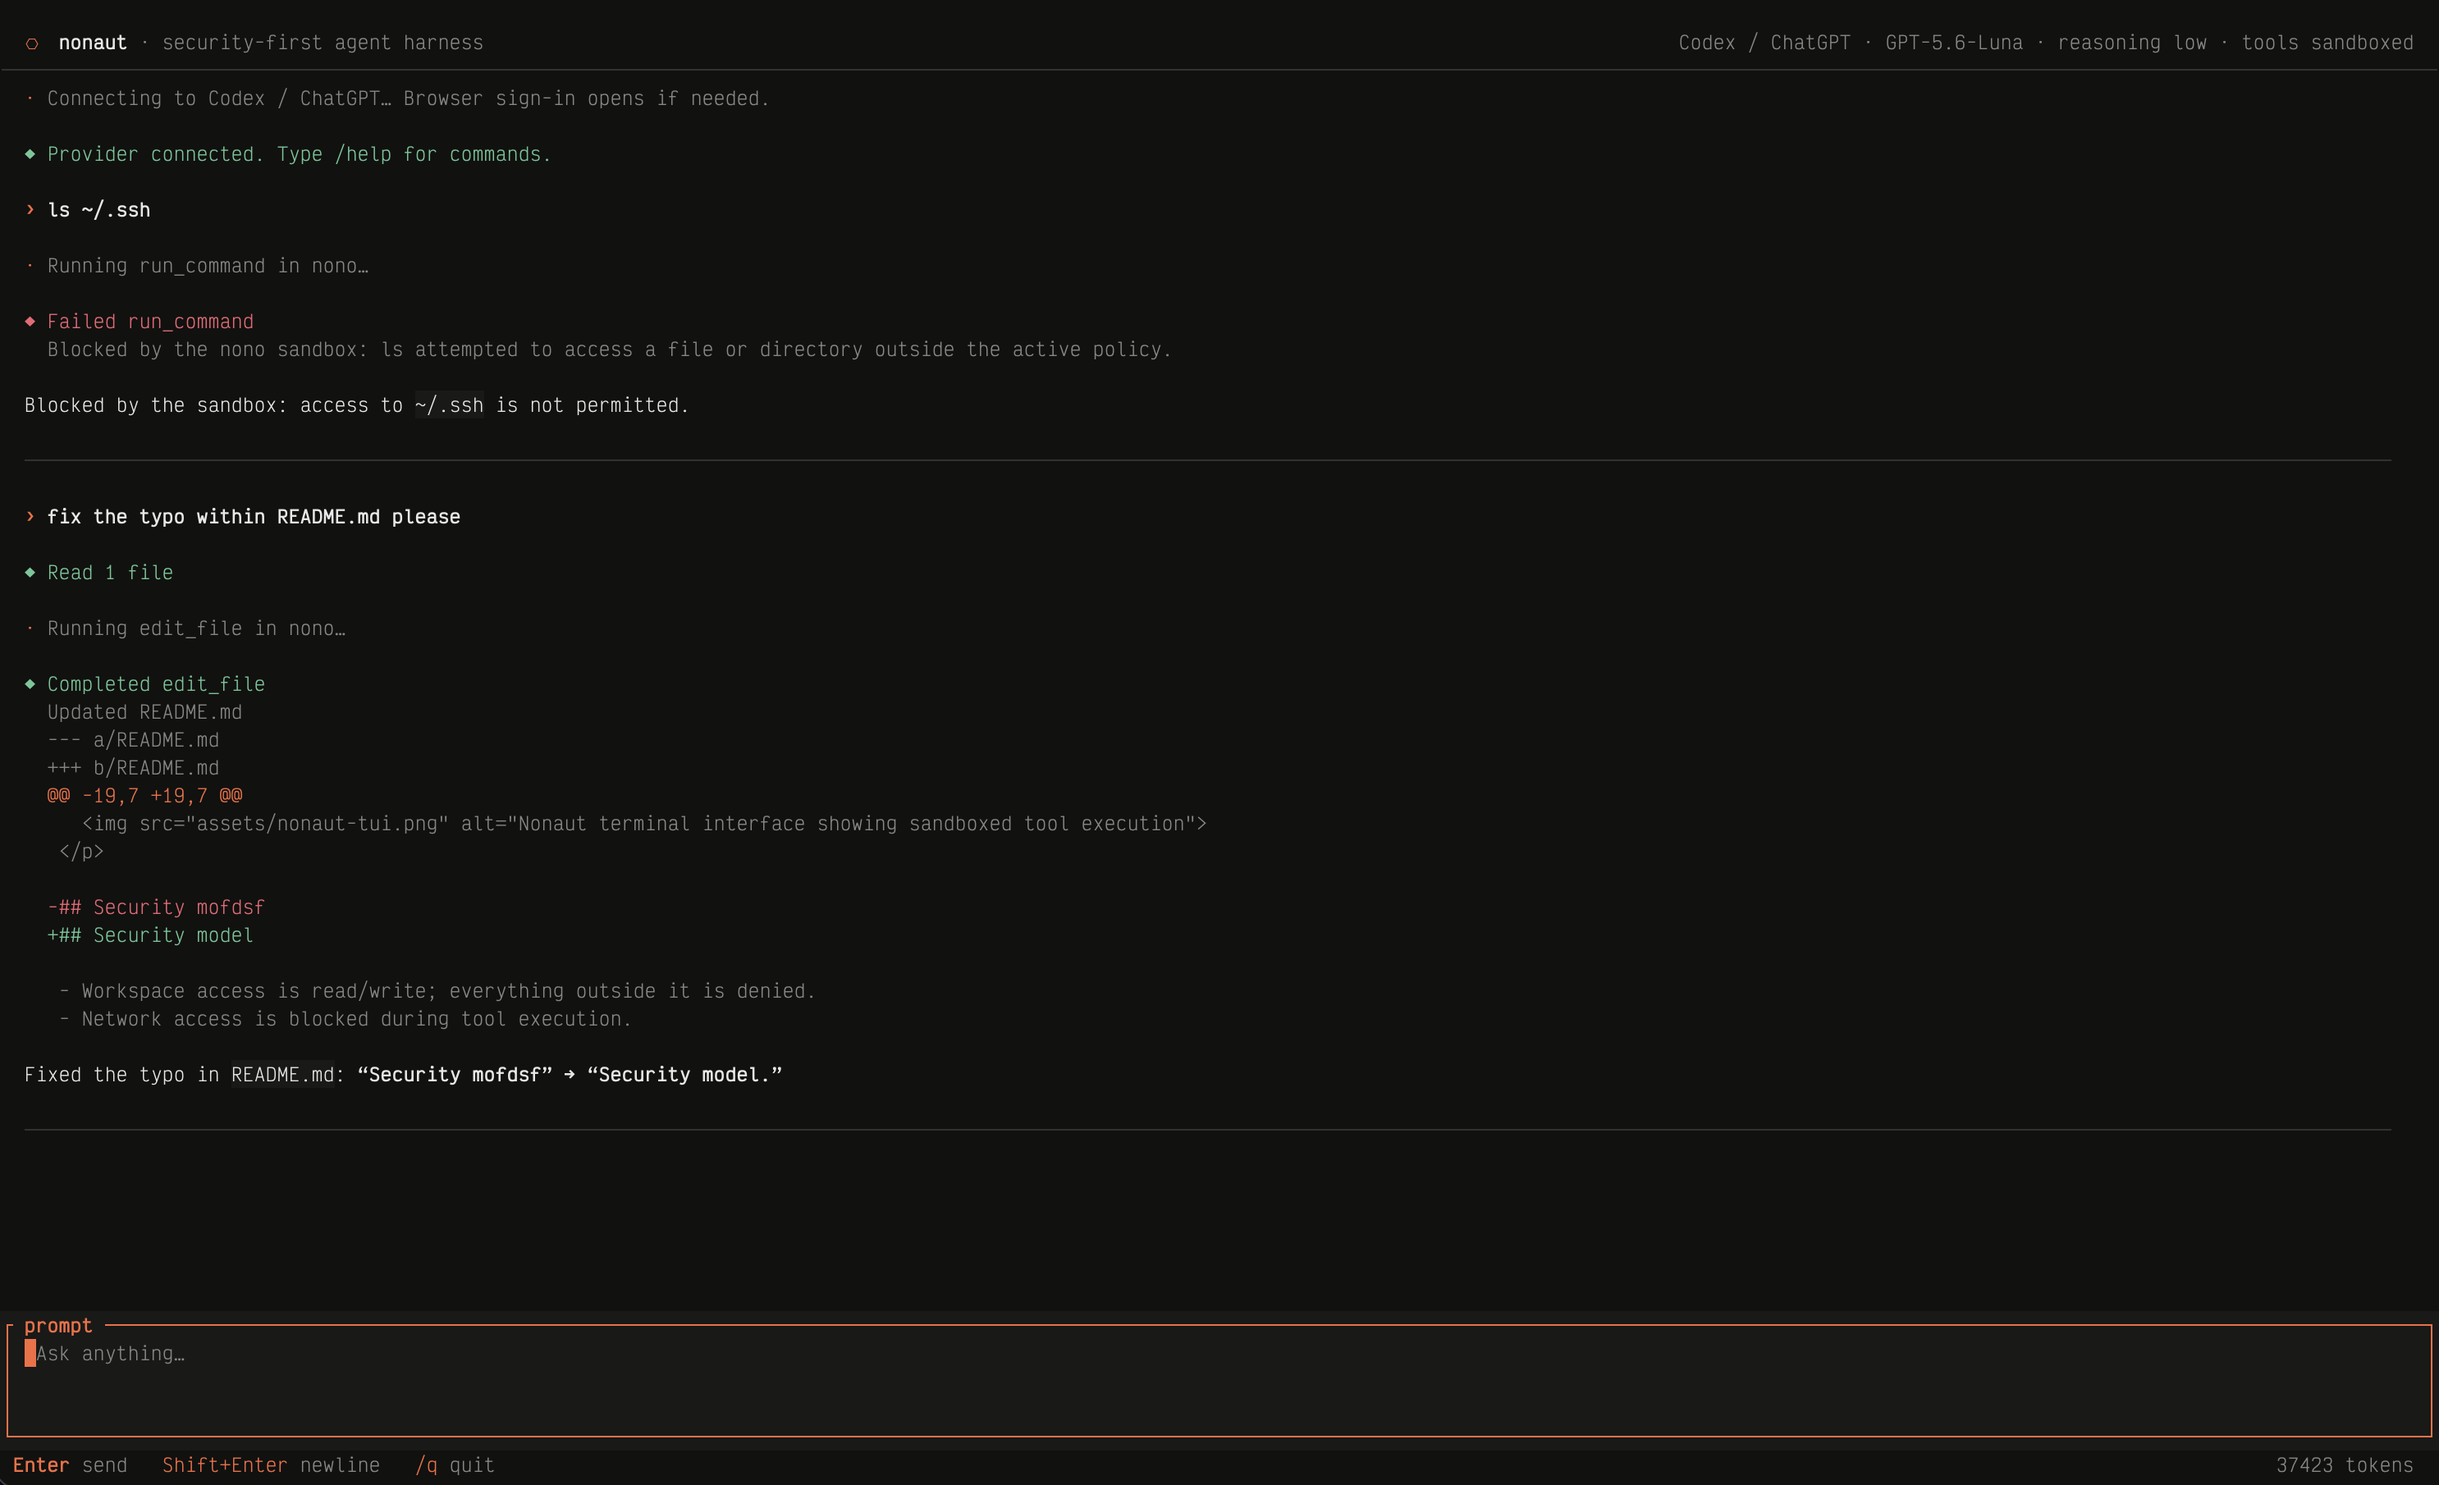
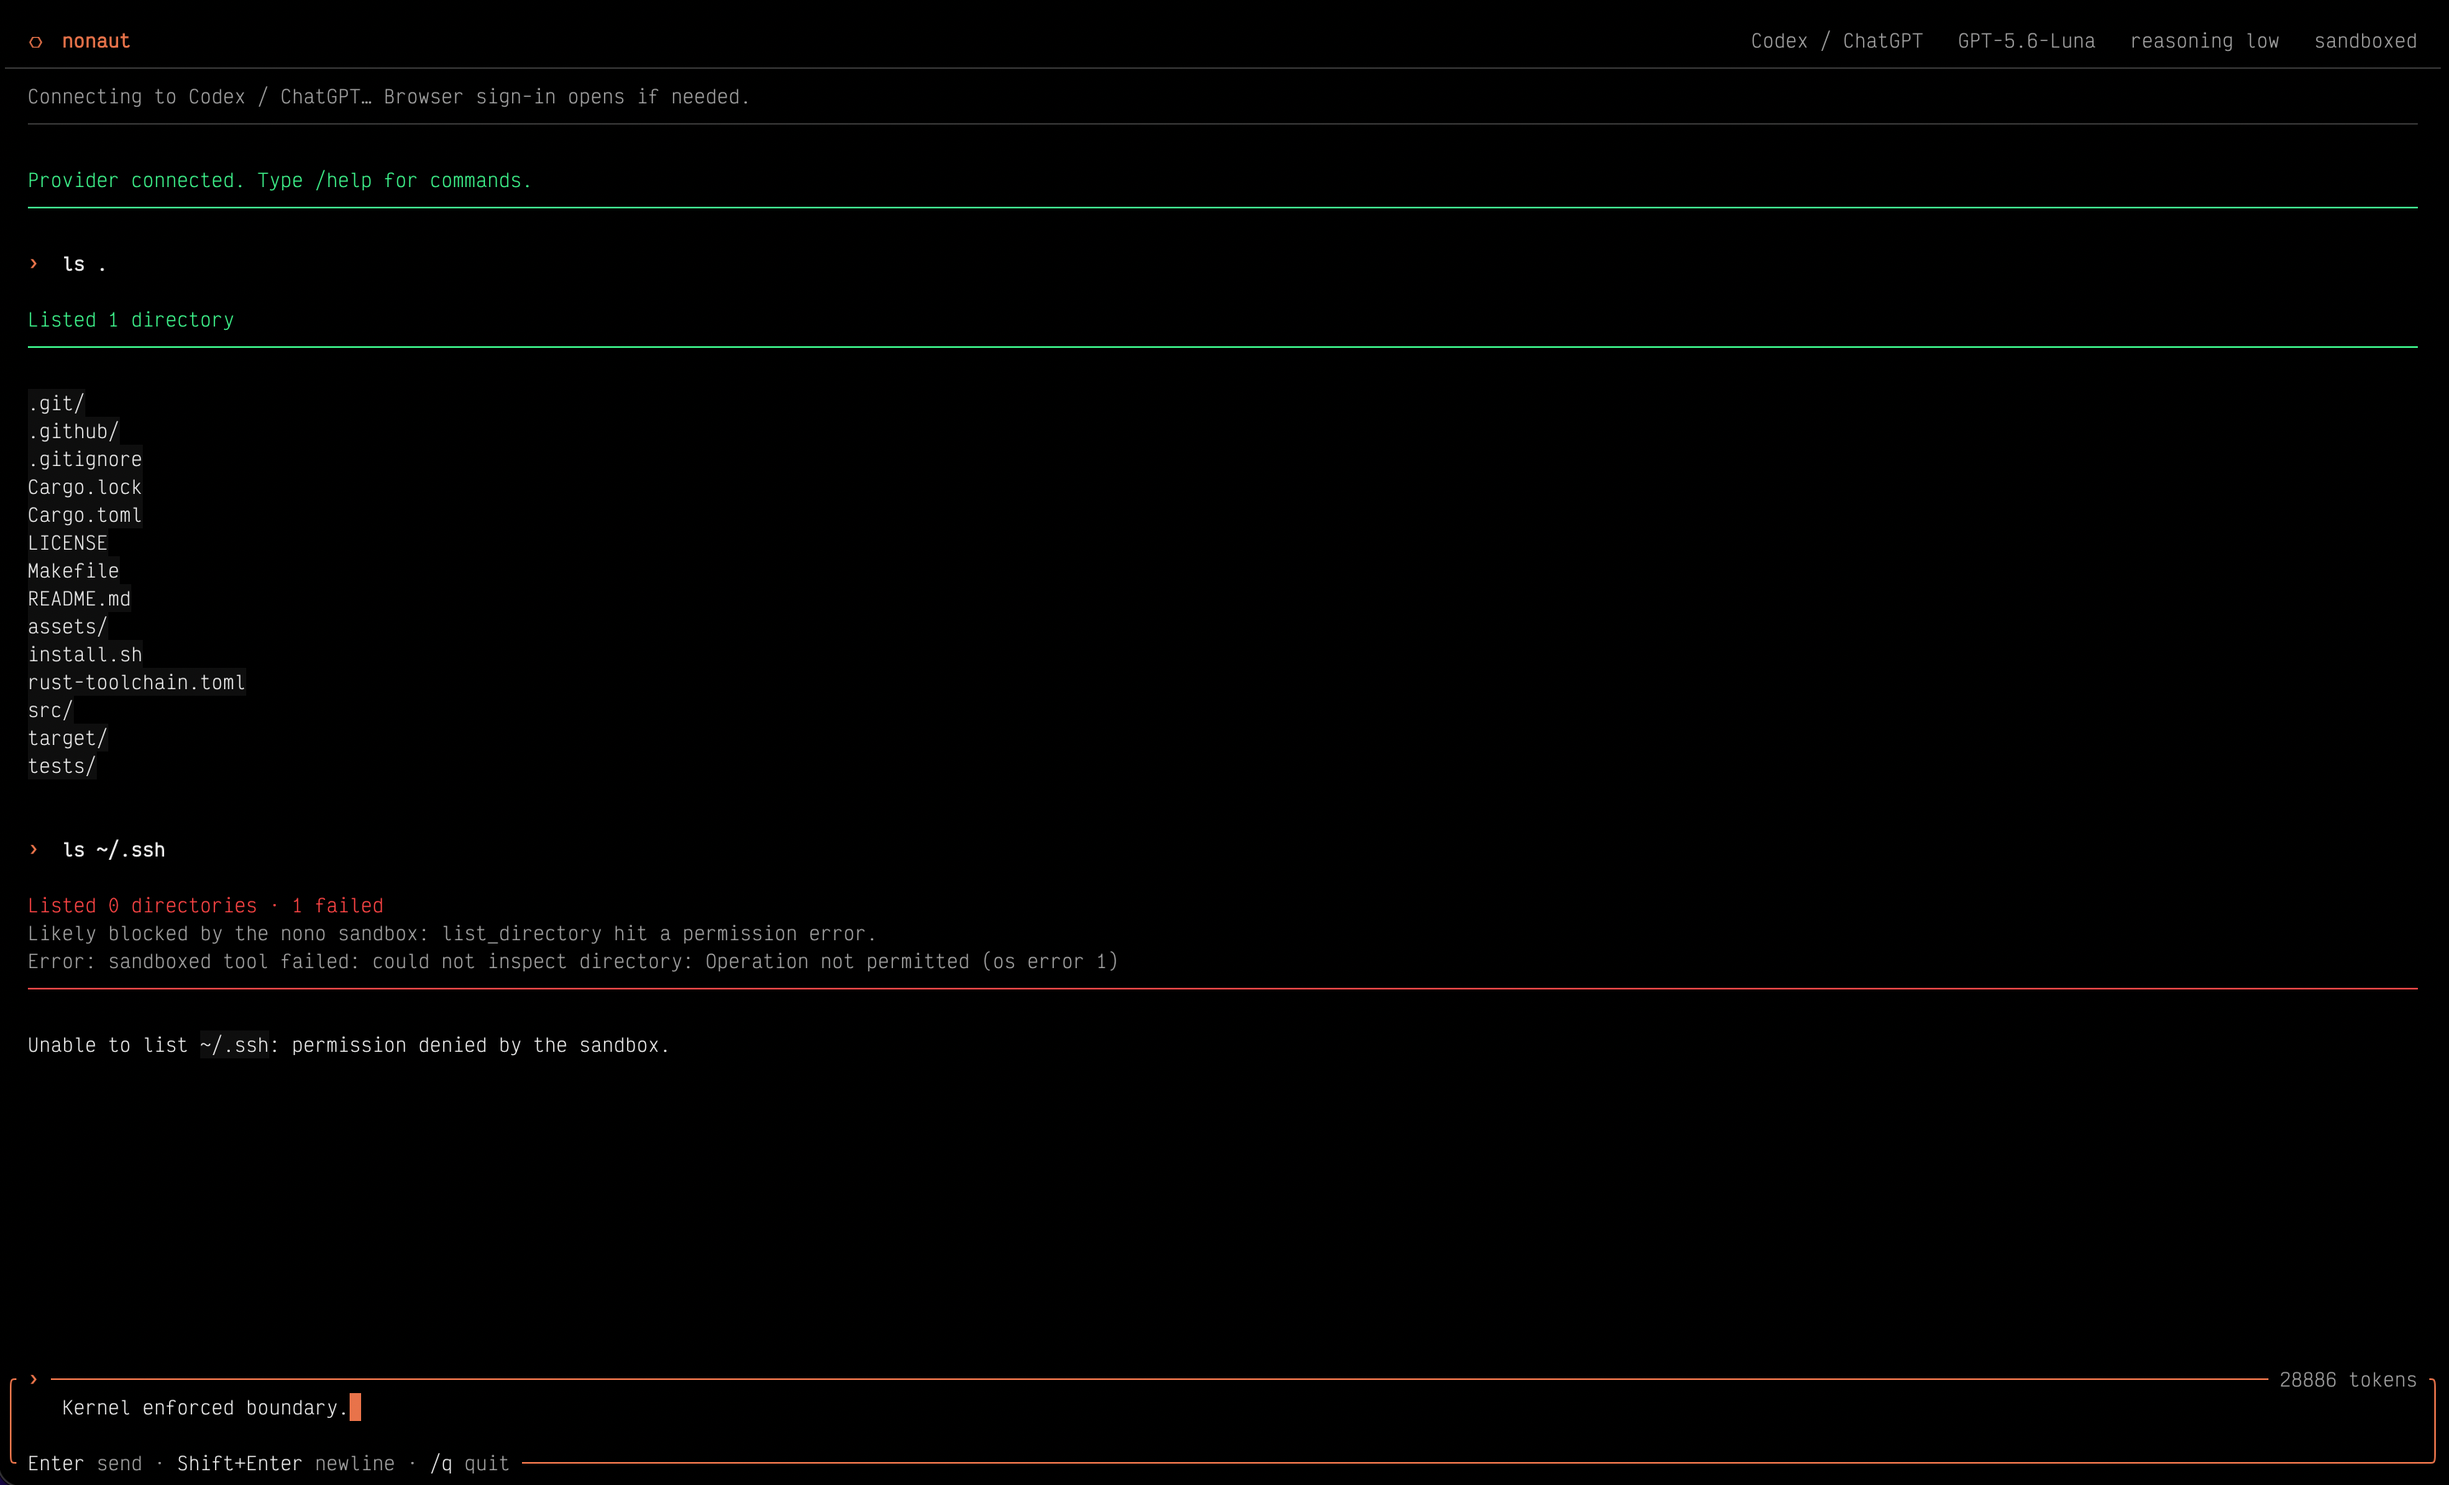
replace readme img + small UX fix

diff --git a/src/tui/mod.rs b/src/tui/mod.rs
@@ -485,13 +485,16 @@ impl App {
                 Role::System | Role::Running | Role::Success | Role::Error => {
                     let border = match message.role {
                         Role::Running => PALETTE.accent,
+                        Role::Success => PALETTE.added,
                         Role::Error => PALETTE.removed,
                         _ => PALETTE.border,
                     };
                     let rows = message.content.lines().enumerate().map(|(index, line)| {
                         let style = if message.role == Role::Error && index == 0 {
                             Style::new().fg(PALETTE.removed)
-                        } else if line.starts_with('+') && !line.starts_with("+++") {
+                        } else if (message.role == Role::Success && index == 0)
+                            || (line.starts_with('+') && !line.starts_with("+++"))
+                        {
                             Style::new().fg(PALETTE.added)
                         } else if line.starts_with('-') && !line.starts_with("---") {
                             Style::new().fg(PALETTE.removed)
@@ -501,10 +504,7 @@ impl App {
                         (line, style)
                     });
                     for (line, style) in rows {
-                        lines.push(Line::from(vec![
-                            Span::raw("   "),
-                            Span::styled(line, style),
-                        ]));
+                        lines.push(Line::styled(line, style));
                     }
                     lines.push(Line::styled(
                         "─".repeat(usize::from(conversation.width.saturating_sub(4))),

diff --git a/README.md b/README.md
@@ -32,7 +32,7 @@ nonaut
 ## Preview
 
 <p align="center">
-  <img src="assets/nonaut-preview.png" alt="Nonaut terminal interface showing sandboxed tool execution">
+  <img src="assets/nonaut-preview.png" alt="Nonaut terminal interface showing workspace access and a blocked sandbox request">
 </p>
 
 ## Security model
